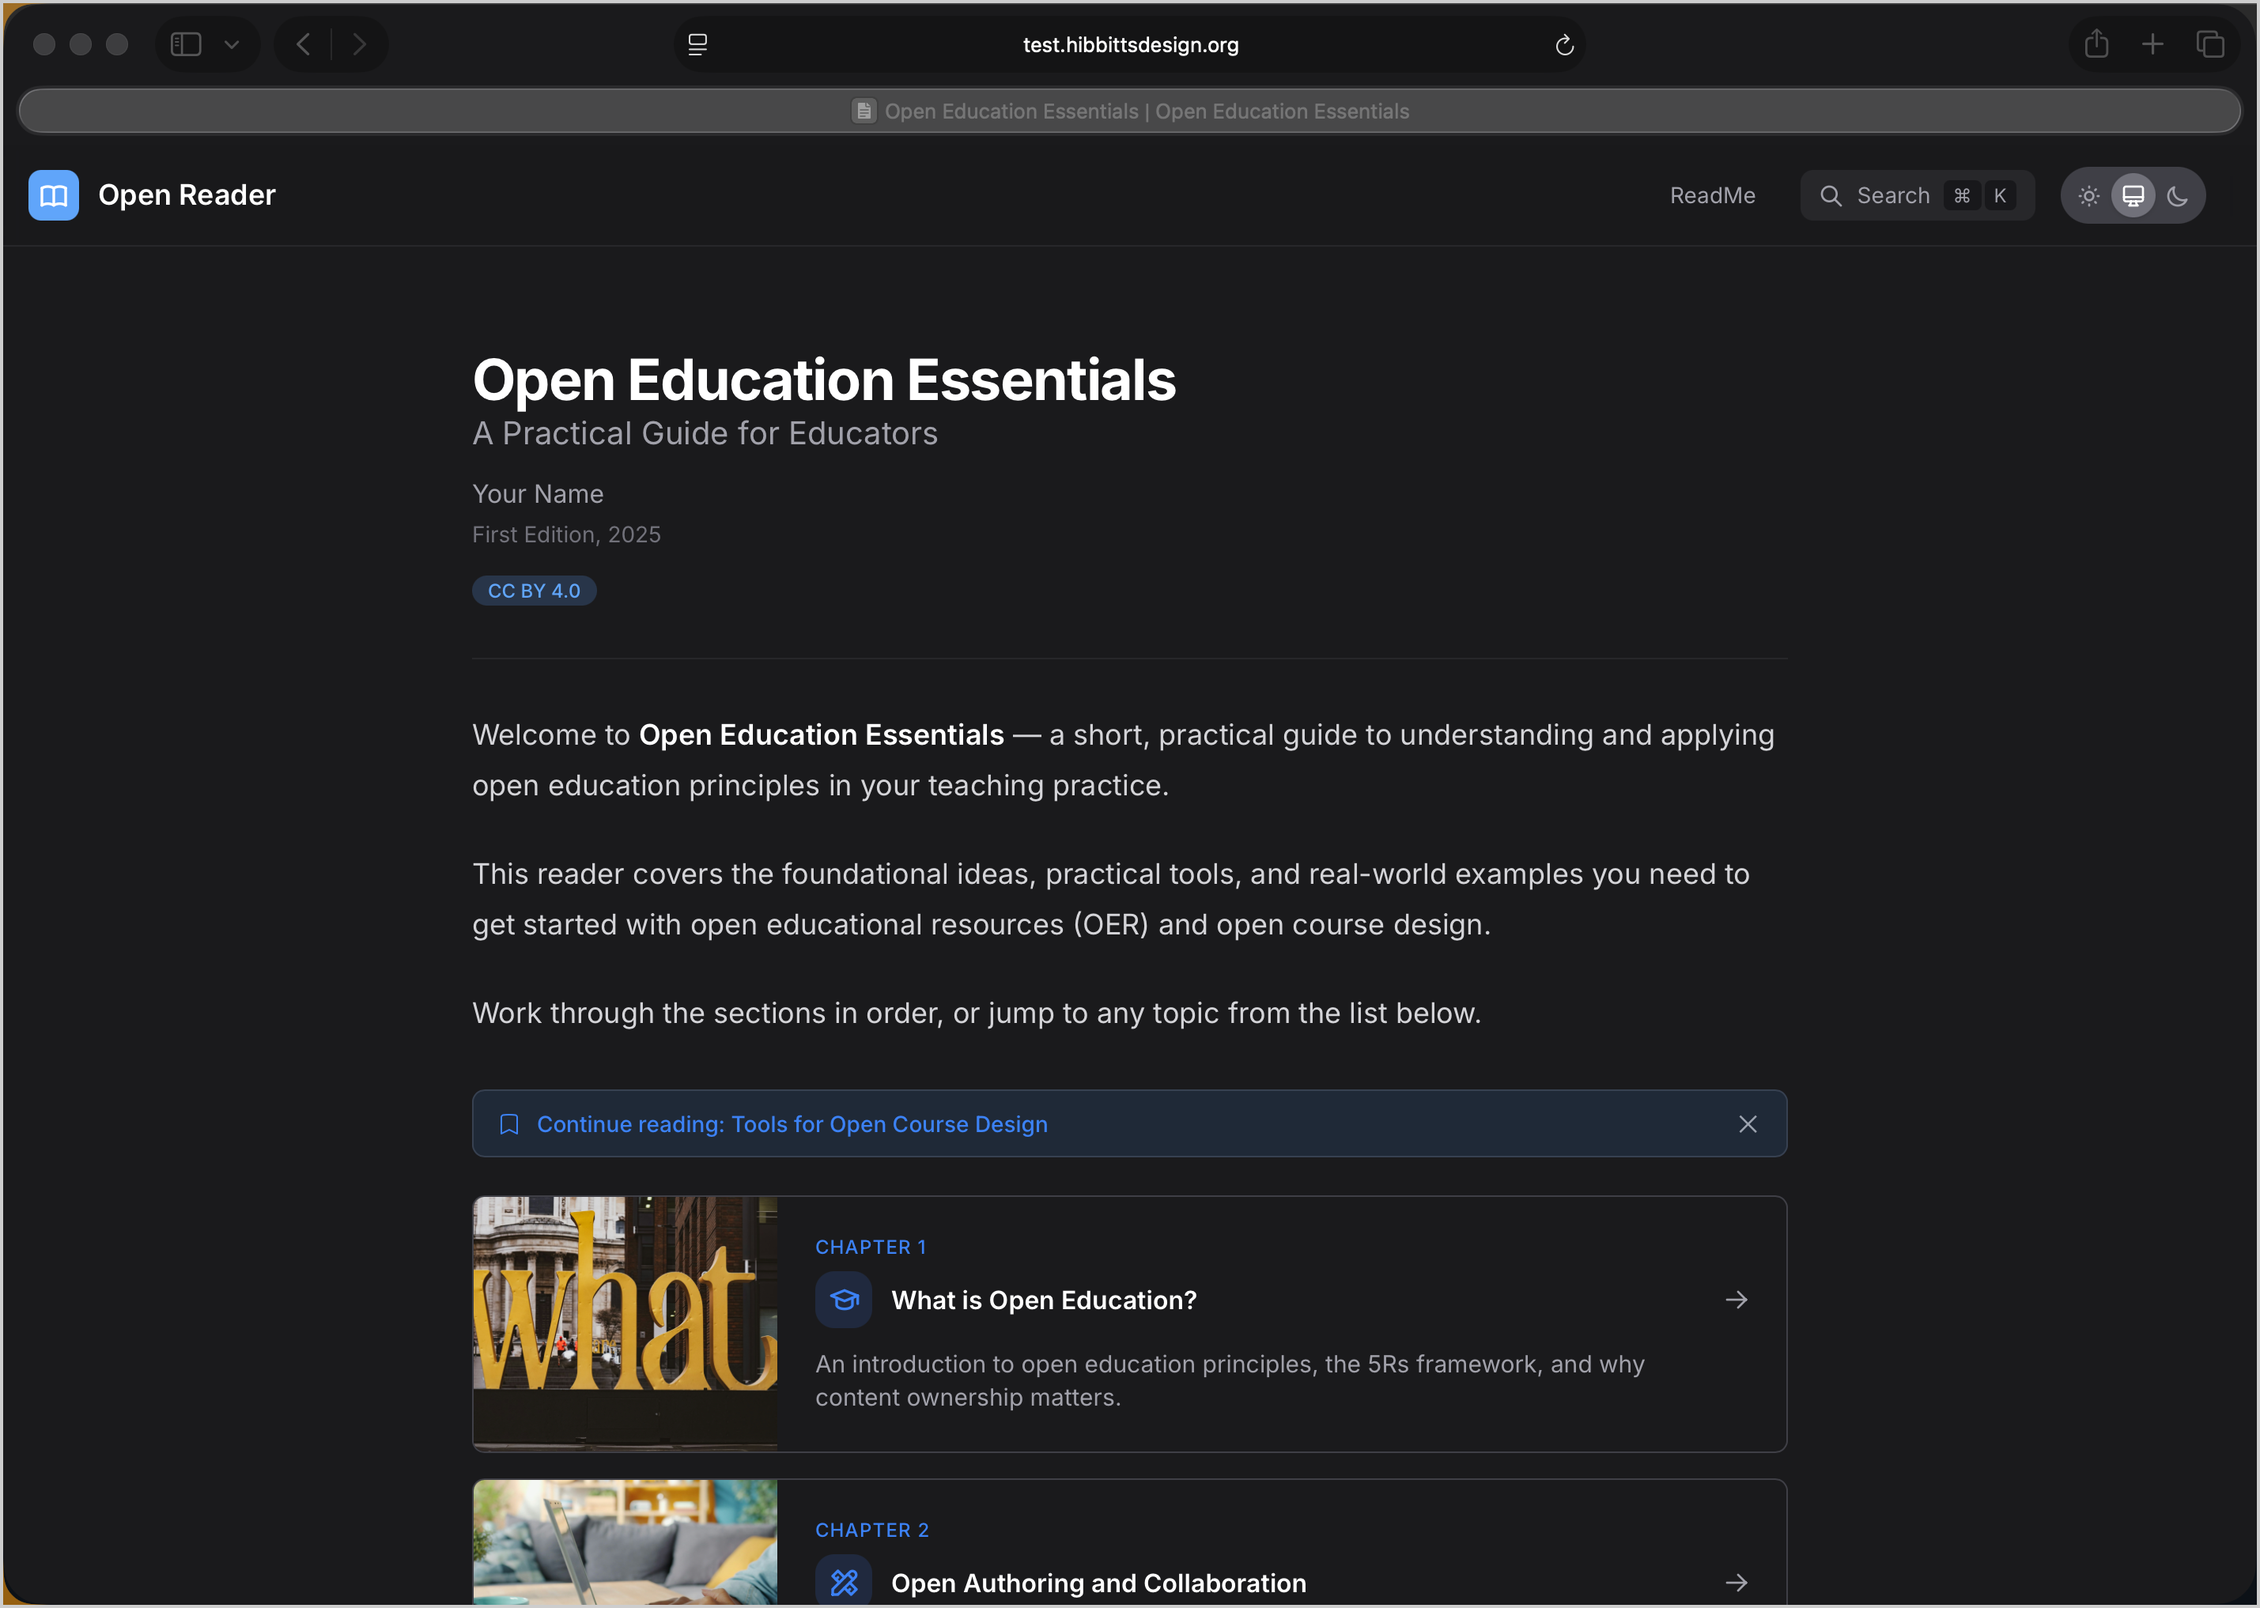
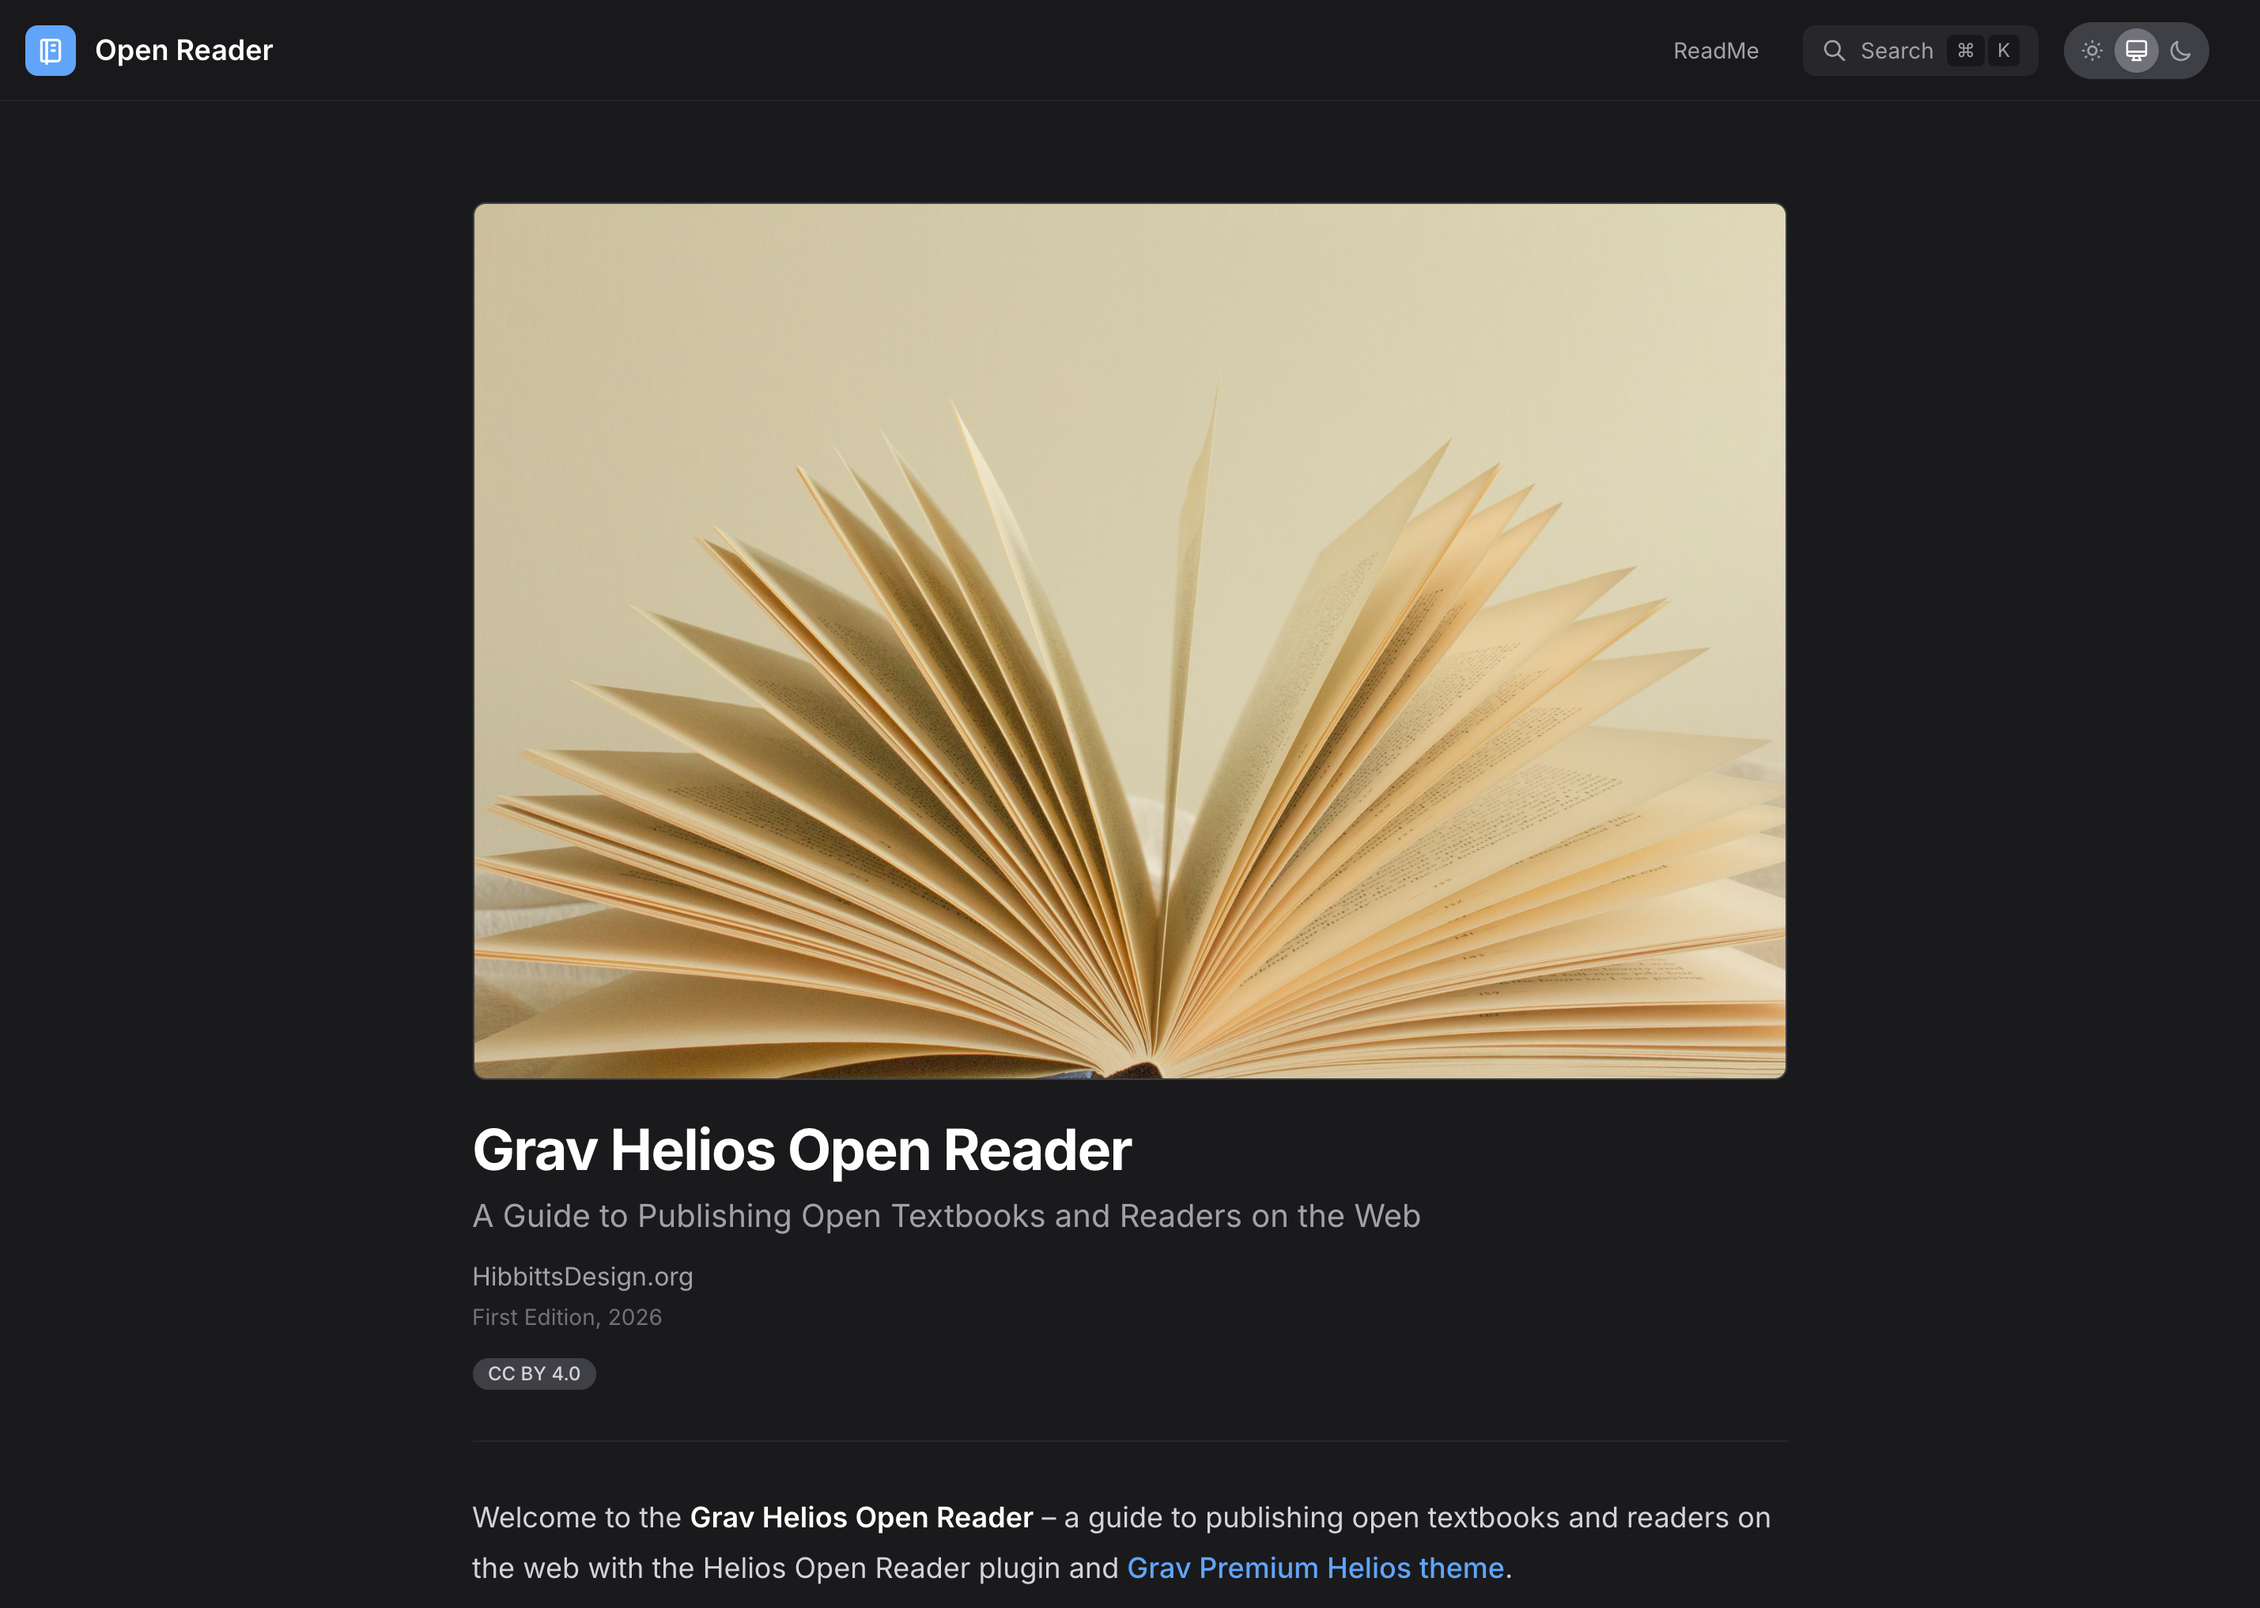
Names, descriptions and taglines match the free twins, with new screenshots.

diff --git a/screenshots/screenshots.md b/screenshots/screenshots.md
@@ -10,7 +10,7 @@
       <a href="https://raw.githubusercontent.com/hibbitts-design/grav-skeleton-helios-open-reader/refs/heads/main/screenshots/screenshot-1.png">
       <picture>
         <source media="(prefers-color-scheme: dark)" srcset="https://raw.githubusercontent.com/hibbitts-design/grav-skeleton-helios-open-reader/refs/heads/main/screenshots/screenshot-1-dark.png">
-        <img alt="Courses homepage showing two course cards with icons and descriptions" src="https://raw.githubusercontent.com/hibbitts-design/grav-skeleton-helios-open-reader/refs/heads/main/screenshots/screenshot-1.png" width="100%">
+        <img alt="Reader home page with cover image, section cards, and Start Reading button" src="https://raw.githubusercontent.com/hibbitts-design/grav-skeleton-helios-open-reader/refs/heads/main/screenshots/screenshot-1.png" width="100%">
       </picture>
       </a>
     </td>
@@ -18,80 +18,34 @@
       <a href="https://raw.githubusercontent.com/hibbitts-design/grav-skeleton-helios-open-reader/refs/heads/main/screenshots/screenshot-2.png">
       <picture>
         <source media="(prefers-color-scheme: dark)" srcset="https://raw.githubusercontent.com/hibbitts-design/grav-skeleton-helios-open-reader/refs/heads/main/screenshots/screenshot-2-dark.png">
-        <img alt="Courses homepage showing two course cards with images" src="https://raw.githubusercontent.com/hibbitts-design/grav-skeleton-helios-open-reader/refs/heads/main/screenshots/screenshot-2.png" width="100%">
+        <img alt="Chapter page with Learning Objectives, the chapter's sections in the sidebar, and a Next link" src="https://raw.githubusercontent.com/hibbitts-design/grav-skeleton-helios-open-reader/refs/heads/main/screenshots/screenshot-2.png" width="100%">
       </picture>
       </a>
     </td>
   </tr>
   <tr>
-    <td align="center">Course Hub – Courses</td>
-    <td align="center">Course Hub – Courses with card images</td>
-  </tr>
-  <tr><td colspan="2">&nbsp;</td></tr>
-  <tr>
-    <td width="49%">
-      <a href="https://raw.githubusercontent.com/hibbitts-design/grav-skeleton-helios-open-reader/refs/heads/main/screenshots/screenshot-3.png">
-      <picture>
-        <source media="(prefers-color-scheme: dark)" srcset="https://raw.githubusercontent.com/hibbitts-design/grav-skeleton-helios-open-reader/refs/heads/main/screenshots/screenshot-3-dark.png">
-        <img alt="Weekly course page with sidebar navigation and module listing" src="https://raw.githubusercontent.com/hibbitts-design/grav-skeleton-helios-open-reader/refs/heads/main/screenshots/screenshot-3.png" width="100%">
-      </picture>
-      </a>
-    </td>
-    <td width="49%">
-      <a href="https://raw.githubusercontent.com/hibbitts-design/grav-skeleton-helios-open-reader/refs/heads/main/screenshots/screenshot-4.png">
-      <picture>
-        <source media="(prefers-color-scheme: dark)" srcset="https://raw.githubusercontent.com/hibbitts-design/grav-skeleton-helios-open-reader/refs/heads/main/screenshots/screenshot-4-dark.png">
-        <img alt="Weekly course page with sidebar navigation and course card image banner" src="https://raw.githubusercontent.com/hibbitts-design/grav-skeleton-helios-open-reader/refs/heads/main/screenshots/screenshot-4.png" width="100%">
-      </picture>
-      </a>
-    </td>
-  </tr>
-  <tr>
-    <td align="center">Course Hub – Weekly overview</td>
-    <td align="center">Course Hub – Weekly overview with sidebar image</td>
-  </tr>
-  <tr><td colspan="2">&nbsp;</td></tr>
-  <tr>
-    <td width="49%">
-      <a href="https://raw.githubusercontent.com/hibbitts-design/grav-skeleton-helios-open-reader/refs/heads/main/screenshots/screenshot-5.png">
-      <picture>
-        <source media="(prefers-color-scheme: dark)" srcset="https://raw.githubusercontent.com/hibbitts-design/grav-skeleton-helios-open-reader/refs/heads/main/screenshots/screenshot-5-dark.png">
-        <img alt="Course welcome page with sidebar navigation and course introduction" src="https://raw.githubusercontent.com/hibbitts-design/grav-skeleton-helios-open-reader/refs/heads/main/screenshots/screenshot-5.png" width="100%">
-      </picture>
-      </a>
-    </td>
-    <td width="49%">
-      <a href="https://raw.githubusercontent.com/hibbitts-design/grav-skeleton-helios-open-reader/refs/heads/main/screenshots/screenshot-6.png">
-      <picture>
-        <source media="(prefers-color-scheme: dark)" srcset="https://raw.githubusercontent.com/hibbitts-design/grav-skeleton-helios-open-reader/refs/heads/main/screenshots/screenshot-6-dark.png">
-        <img alt="Weekly module page with sidebar navigation and module content" src="https://raw.githubusercontent.com/hibbitts-design/grav-skeleton-helios-open-reader/refs/heads/main/screenshots/screenshot-6.png" width="100%">
-      </picture>
-      </a>
-    </td>
-  </tr>
-  <tr>
-    <td align="center">Course Hub – Course welcome</td>
-    <td align="center">Course Hub – Weekly module</td>
+    <td align="center">Open Reader – Publication home</td>
+    <td align="center">Open Reader – Chapter page</td>
   </tr>
   <tr><td colspan="2">&nbsp;</td></tr>
   <tr>
     <td width="49%">
       <a href="https://raw.githubusercontent.com/hibbitts-design/grav-skeleton-helios-open-reader/refs/heads/main/screenshots/screenshot-admin-1.png">
       <picture>
-        <img alt="Admin Panel pages overview showing course content tree" src="https://raw.githubusercontent.com/hibbitts-design/grav-skeleton-helios-open-reader/refs/heads/main/screenshots/screenshot-admin-1.png" width="100%">
+        <img alt="Admin Panel pages overview showing reader content tree" src="https://raw.githubusercontent.com/hibbitts-design/grav-skeleton-helios-open-reader/refs/heads/main/screenshots/screenshot-admin-1.png" width="100%">
       </picture>
       </a>
     </td>
     <td width="49%">
       <a href="https://raw.githubusercontent.com/hibbitts-design/grav-skeleton-helios-open-reader/refs/heads/main/screenshots/screenshot-admin-2.png">
       <picture>
-        <img alt="Admin Panel course card editor with icon and description fields" src="https://raw.githubusercontent.com/hibbitts-design/grav-skeleton-helios-open-reader/refs/heads/main/screenshots/screenshot-admin-2.png" width="100%">
+        <img alt="Admin Panel section page editor with frontmatter fields" src="https://raw.githubusercontent.com/hibbitts-design/grav-skeleton-helios-open-reader/refs/heads/main/screenshots/screenshot-admin-2.png" width="100%">
       </picture>
       </a>
     </td>
   </tr>
   <tr>
     <td align="center">Admin Panel – Pages overview</td>
-    <td align="center">Admin Panel – Course card edit</td>
+    <td align="center">Admin Panel – Section page edit</td>
   </tr>
 </table>

diff --git a/README.md b/README.md
@@ -4,7 +4,7 @@
 
 ### Ready-to-Run Skeleton Package
 
-<p><em>Publish open textbooks, course readers, student projects, and other OER on the web – with content in portable Markdown files you fully control.</em></p>
+<p><em>An open home for one publication or many – with a table of contents beside every page, all in portable Markdown files you control.</em></p>
 
 [![Grav Discord Chat](https://img.shields.io/discord/501836936584101899.svg?logo=discord&colorB=728ADA&label=Grav%20Discord%20Chat)](https://chat.getgrav.org) [![Latest Release](https://img.shields.io/github/v/release/hibbitts-design/grav-skeleton-helios-open-reader?style=flat-square&label=Release)](https://github.com/hibbitts-design/grav-skeleton-helios-open-reader/releases/latest) [![License](https://img.shields.io/badge/License-MIT-blue.svg?style=flat-square)](https://github.com/hibbitts-design/grav-skeleton-helios-open-reader/blob/master/LICENSE) [![PHP](https://img.shields.io/badge/PHP-%3E%3D8.0-8892BF?style=flat-square&logo=php&logoColor=white)](https://learn.getgrav.org/17/basics/requirements)
 
@@ -24,7 +24,7 @@
       <a href="https://raw.githubusercontent.com/hibbitts-design/grav-skeleton-helios-open-reader/refs/heads/main/screenshots/screenshot-2.png">
       <picture>
         <source media="(prefers-color-scheme: dark)" srcset="https://raw.githubusercontent.com/hibbitts-design/grav-skeleton-helios-open-reader/refs/heads/main/screenshots/screenshot-2-dark.png">
-        <img alt="Section reading page with sidebar navigation and Section N header" src="https://raw.githubusercontent.com/hibbitts-design/grav-skeleton-helios-open-reader/refs/heads/main/screenshots/screenshot-2.png" width="100%">
+        <img alt="Chapter page with Learning Objectives, the chapter's sections in the sidebar, and a Next link" src="https://raw.githubusercontent.com/hibbitts-design/grav-skeleton-helios-open-reader/refs/heads/main/screenshots/screenshot-2.png" width="100%">
       </picture>
       </a>
     </td>
